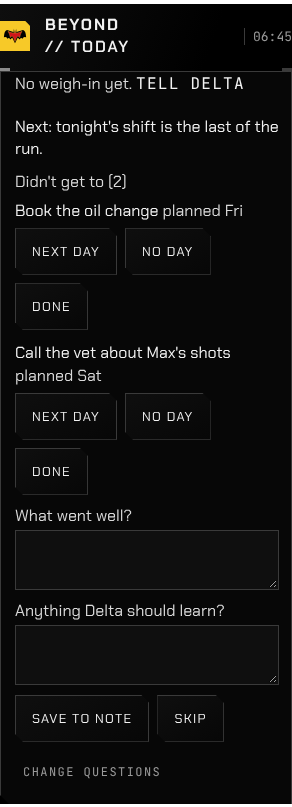
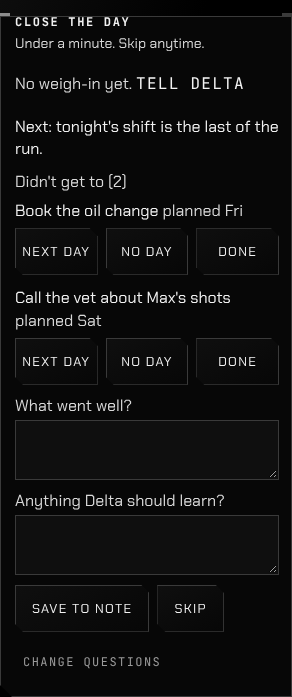
GRAYSON-CARRY-001: #720 review notes, and the ExerciseNotes CI race
- Focus stays in the row after each tap (UNDO, NEXT DAY, YES, DONE, or the row's line), keyboard-tested.
- A task planned exactly a week ago says "Nov 9", never a second weekday like today's.
- The three choices share one line at 320 px.
- DST-boundary close test (Nov 1, 2026).
- tests/browser/ExerciseNotes.test.tsx: the focus check now waits for the next animation frame, where
  ExerciseNoteLine returns focus (close() uses requestAnimationFrame). It failed in CI shard 2 on master and here;
  it passes alone because the frame usually lands before the synchronous check.

Claude-Session: https://claude.ai/code/session_01UR9w2nuSV6oWAKV5Wc8D8r

diff --git a/src/ui/screens/today/CloseCard.tsx b/src/ui/screens/today/CloseCard.tsx
@@ -106,6 +106,14 @@ const dayName = (date: string) => { const [y, m, d] = date.split("-").map(Number
 function CarryBlock({ dayId, busy }: { dayId: string; busy: boolean }) {
   const [plans, setPlans] = useState<{ nextDate: string; rows: CarryRow[]; more: number } | null>(null);
   const [working, setWorking] = useState(false);
+  // #720 review: after a tap the pressed button goes away; focus stays in that row (its first button, or its line).
+  const [focusRow, setFocusRow] = useState<string | null>(null);
+  useEffect(() => {
+    if (!focusRow) return;
+    const row = document.querySelector<HTMLElement>(`[data-carry-row="${CSS.escape(focusRow)}"]`);
+    (row?.querySelector<HTMLElement>("button") ?? row?.querySelector<HTMLElement>("[data-carry-status]"))?.focus();
+    setFocusRow(null);
+  }, [focusRow, plans]);
   useEffect(() => {
     let cancelled = false;
     void getUnfinishedPlans().then((p: UnfinishedPlans | null) => {
@@ -121,7 +129,7 @@ function CarryBlock({ dayId, busy }: { dayId: string; busy: boolean }) {
     setWorking(true);
     try { update(row.task.id, { ...(await action()), error: undefined, confirming: false }); }
     catch (cause) { update(row.task.id, { error: cause instanceof Error && cause.message === CARRY_CHANGED ? CARRY_CHANGED : "That didn't save. Nothing changed.", confirming: false }); }
-    finally { setWorking(false); }
+    finally { setWorking(false); setFocusRow(row.task.id); }
   };
   const expected = (t: Obligation) => ({ updatedAt: t.updatedAt, plannedAt: t.plannedAt });
   const move = (row: CarryRow, to: string | null) => run(row, async () => {
@@ -137,19 +145,19 @@ function CarryBlock({ dayId, busy }: { dayId: string; busy: boolean }) {
   return <div className="today-close__carry" role="group" aria-label={heading}>
     <p className="today-close__carry-head">{heading}</p>
     <ul>
-      {plans.rows.map((row) => <li key={row.task.id} className="today-close__carry-row">
+      {plans.rows.map((row) => <li key={row.task.id} className="today-close__carry-row" data-carry-row={row.task.id}>
         <span className="today-close__carry-title">{row.task.title} <span className="today-close__carry-day">planned {row.plannedLabel}</span></span>
         {row.state ? <span className="today-close__carry-acts">
-          <span role="status">{row.state.kind === "NEXT" ? `Planned for ${dayName(plans.nextDate)}.` : row.state.kind === "NONE" ? "No day now. It's under No date in PLANS." : "Done."}</span>
+          <span role="status" tabIndex={-1} data-carry-status>{row.state.kind === "NEXT" ? `Planned for ${dayName(plans.nextDate)}.` : row.state.kind === "NONE" ? "No day now. It's under No date in PLANS." : "Done."}</span>
           {row.state.kind !== "DONE" && <button type="button" className="btn-secondary" disabled={off} aria-label={`Undo: ${row.task.title}`} onClick={() => undo(row)}>UNDO</button>}
         </span> : row.confirming ? <span className="today-close__carry-acts" role="group" aria-label={`Mark done: ${row.task.title}`}>
           <span>Mark it done? This can't be undone.</span>
           <button type="button" className="btn-secondary" disabled={off} onClick={() => void run(row, async () => { await completeCarriedTask(row.task.id, expected(row.task)); return { state: { kind: "DONE" } }; })}>YES, DONE</button>
-          <button type="button" className="btn-secondary" disabled={off} onClick={() => update(row.task.id, { confirming: false })}>NOT YET</button>
+          <button type="button" className="btn-secondary" disabled={off} onClick={() => { update(row.task.id, { confirming: false }); setFocusRow(row.task.id); }}>NOT YET</button>
         </span> : <span className="today-close__carry-acts" role="group" aria-label={`What to do with: ${row.task.title}`}>
           <button type="button" className="btn-secondary" disabled={off} onClick={() => void move(row, plans.nextDate)}>NEXT DAY</button>
           <button type="button" className="btn-secondary" disabled={off} onClick={() => void move(row, null)}>NO DAY</button>
-          <button type="button" className="btn-secondary" disabled={off} onClick={() => update(row.task.id, { confirming: true })}>DONE</button>
+          <button type="button" className="btn-secondary" disabled={off} onClick={() => { update(row.task.id, { confirming: true }); setFocusRow(row.task.id); }}>DONE</button>
         </span>}
         {row.error && <span role="alert" className="today-close__carry-day">{row.error}</span>}
       </li>)}

diff --git a/src/application/dayClose.ts b/src/application/dayClose.ts
@@ -158,6 +158,7 @@ export interface UnfinishedPlans { closingDate: string; nextDate: string; rows: 
 const dateOf = (iso: string) => { const [y, m, d] = iso.split("-").map(Number); return new Date(y!, m! - 1, d!, 12); };
 const addDays = (date: string, n: number) => { const d = dateOf(date); return formatLocalDate(new Date(d.getFullYear(), d.getMonth(), d.getDate() + n, 12)); };
 const shortDay = (date: string) => dateOf(date).toLocaleDateString("en-US", { weekday: "short" });
+const monthDay = (date: string) => dateOf(date).toLocaleDateString("en-US", { month: "short", day: "numeric" });
 
 /** Pure: open tasks planned on or before the closing lived day's first date, up to 7 days back, oldest planned first. */
 export function deriveUnfinishedPlans(tasks: readonly Obligation[], closingDate: string): UnfinishedPlans {
@@ -165,7 +166,8 @@ export function deriveUnfinishedPlans(tasks: readonly Obligation[], closingDate:
   const rows = tasks
     .filter((t) => t.status === "OPEN" && t.plannedAt !== undefined && t.plannedAt <= closingDate && t.plannedAt >= earliest)
     .sort((a, b) => a.plannedAt!.localeCompare(b.plannedAt!) || a.createdAt.localeCompare(b.createdAt) || a.id.localeCompare(b.id))
-    .map((task) => ({ task, plannedLabel: shortDay(task.plannedAt!) }));
+    // #720 review: only a task exactly 7 days back shares today's weekday; it says "Nov 9", never a second "Mon".
+    .map((task) => ({ task, plannedLabel: task.plannedAt! >= addDays(closingDate, -6) ? shortDay(task.plannedAt!) : monthDay(task.plannedAt!) }));
   return { closingDate, nextDate: addDays(closingDate, 1), rows };
 }
 

diff --git a/tests/integration/unfinishedPlans.test.ts b/tests/integration/unfinishedPlans.test.ts
@@ -43,6 +43,22 @@ describe("which tasks the close names", () => {
     expect(plans).toMatchObject({ closingDate: "2026-11-18", nextDate: "2026-11-19" });
     expect(plans.rows.map((r) => r.task.id)).toEqual([wed.id]);
   });
+  it("#720 review: a task planned a week ago says its date, never a second weekday like today's", async () => {
+    await startDay(at(16, 17).toISOString());
+    await createObligation({ title: "Week-old", plannedAt: "2026-11-09" });
+    await createObligation({ title: "Six days", plannedAt: "2026-11-10" });
+    vi.setSystemTime(at(17, 6, 10));
+    expect((await getUnfinishedPlans())!.rows.map((r) => r.plannedLabel)).toEqual(["Nov 9", "Tue"]);
+  });
+  it("#720 review: a close across the DST change (Nov 1, 2026) still gives the right dates", async () => {
+    vi.setSystemTime(new Date(2026, 9, 31, 17));
+    await startDay(new Date(2026, 9, 31, 17).toISOString());
+    await createObligation({ title: "Saturday plan", plannedAt: "2026-10-31" });
+    vi.setSystemTime(new Date(2026, 10, 1, 7));
+    const plans = (await getUnfinishedPlans())!;
+    expect(plans).toMatchObject({ closingDate: "2026-10-31", nextDate: "2026-11-01" });
+    expect(plans.rows).toHaveLength(1);
+  });
   it("a day started after midnight still closes the date its 16:30 start fell on", async () => {
     vi.setSystemTime(at(17, 1));
     await startDay(at(17, 1).toISOString());

diff --git a/tests/browser/CarryClose.test.tsx b/tests/browser/CarryClose.test.tsx
@@ -99,6 +99,21 @@ describe("GRAYSON-CARRY-001 the close", () => {
     expect((await db.obligations.get(vet))!.plannedAt).toBe("2026-11-14");
   });
 
+  it("#720 review: focus stays in the row after each tap (UNDO, then NEXT DAY again)", async () => {
+    await shiftDown();
+    const screen = await render(<TodayScreen onOpenLife={() => {}} />);
+    const oilRow = block(screen).getByRole("listitem").filter({ hasText: "oil change" });
+    await expect.element(oilRow.getByRole("button", { name: "NEXT DAY" })).toBeVisible();
+    (oilRow.getByRole("button", { name: "NEXT DAY" }).element() as HTMLElement).focus();
+    await userEvent.keyboard("{Enter}");
+    await expect.poll(() => document.activeElement?.getAttribute("aria-label")).toBe("Undo: Book the oil change");
+    await userEvent.keyboard("{Enter}");
+    await expect.poll(() => document.activeElement?.textContent).toBe("NEXT DAY");
+    await userEvent.tab(); await userEvent.tab(); // NO DAY, then DONE
+    await userEvent.keyboard("{Enter}");
+    await expect.poll(() => document.activeElement?.textContent).toBe("YES, DONE");
+  });
+
   it("his switch hides the block; leaving the block alone changes nothing", async () => {
     await shiftDown();
     const screen = await render(<TodayScreen onOpenLife={() => {}} />);

diff --git a/tests/browser/ExerciseNotes.test.tsx b/tests/browser/ExerciseNotes.test.tsx
@@ -58,7 +58,8 @@ describe("GRAYSON-TRAIN-NOTES-001 exercise notes", { timeout: 60_000 }, () => {
     await typeInto(input, "Seat 4, handles at chest height");
     await userEvent.keyboard("{Enter}");
     await expect.element(screen.getByText("Your note: Seat 4, handles at chest height")).toBeVisible();
-    expect(document.activeElement?.getAttribute("aria-label")).toBe("Note for Machine Chest Press");
+    // Focus returns on the next animation frame (ExerciseNoteLine close()); wait for it rather than racing it on a busy runner.
+    await expect.poll(() => document.activeElement?.getAttribute("aria-label")).toBe("Note for Machine Chest Press");
     const row = () => screen.getByText("Your note: Seat 4, handles at chest height").element().closest(".equipment-row");
     await fits("library row", row, "library-row-with-note");
     await cleanup();

diff --git a/src/ui/screens/today/todayFoundation.css b/src/ui/screens/today/todayFoundation.css
@@ -147,3 +147,5 @@
 .today-field.redesign-today .today-close__carry-day { font-size: 16px; color: var(--tf-quiet); }
 .today-field.redesign-today .today-close__carry-acts { display: flex; flex-wrap: wrap; align-items: center; gap: 8px; font-size: 16px; color: var(--tf-quiet); }
 .today-field.redesign-today .today-close__carry-acts .btn-secondary { width: auto; min-height: 44px; }
+/* #720 review: the three choices share one line at 320 px, so five rows don't push the questions far down. */
+.today-field.redesign-today .today-close__carry-acts[aria-label^="What to do"] .btn-secondary { flex: 1 1 0; min-width: 0; padding-inline: 6px; white-space: nowrap; }
